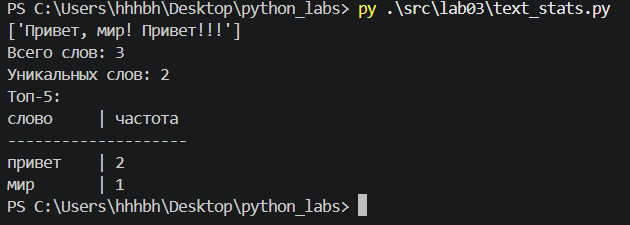
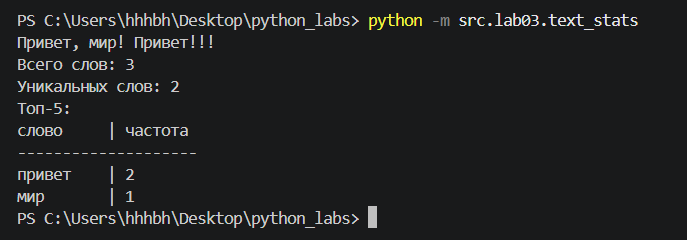
.

diff --git a/src/lib/text.py b/src/lib/text.py
@@ -13,23 +13,26 @@ def flatten(a):
         return TypeError
     
 def normalize(a):
-    b=[]
-    for i in range(len(a)):
-        b.append(a[i].replace("\n"," ").replace("\t"," ").replace("\r"," ").casefold().replace("ё","е").strip())
-        k=b[i].count(" ")
-        prob=" "*k
-        b[i]=b[i].replace(prob," ")
-    return b
+    b=""
+    b=(a.replace("\n"," ").replace("\t"," ").replace("\r"," ").casefold().replace("ё","е").strip())
+    c=""
+    for i in range(len(b)-1):
+        if b[i]==" " and b[i+1]==" ":
+            pass
+        else:
+            c+=b[i]
+    return c+b[-1]
 
 def tokenize(a):
     b=[]
-    for i in range(len(a)):
-        b.append(re.split(r'[^a-zA-Z0-9а-яА-Я-]+',a[i]))
+    c=[]
+    b=(re.split(r'[^a-zA-Z0-9а-яА-Я-]+',a))
     for x in range(len(b)):
-        for y in range(len(b[x])):
-            if len(b[x][y])==0:
-                b[x].pop(y)
-    return b
+        if len(b[x])==0:
+            pass
+        else:
+            c.append(b[x])
+    return c
 
 def count_freq(a):
     b=set(a)
@@ -43,21 +46,19 @@ def count_freq(a):
 def alf_ord(a):
     num_of_nums=[]
     for i in range(len(a)):
-        num_of_nums.append(a[i][0])
+        num_of_nums.append(a[i][1])
     num_of_nums=list(set(num_of_nums))
     num_of_nums.reverse()
     b=[[]for x in range(len(num_of_nums))]
     for x in range(0,len(num_of_nums)):
         for y in range(0,len(a)):
-            if int(a[y][0])==int(num_of_nums[x]):
+            if (a[y][1])==(num_of_nums[x]):
                 b[x].append(a[y])
     for i in range(len(b)):
-        b[i].sort()
+        flatten(b[i])
     return flatten(b)
 
 def top_n(a,n):
-    b=[[0,0]for i in range(len(a))]
-    for i in range(len(a)):
-        b[i][0],b[i][1]=a[i][1],a[i][0]
-    b.sort(reverse=True)
-    return alf_ord(b)[0:n]
+    c=list(dict.items(a))
+    e=sorted(c, key=lambda x: x[1], reverse=True)
+    return alf_ord(e[0:n])

diff --git a/src/lab03/text_stats.py b/src/lab03/text_stats.py
@@ -2,19 +2,17 @@ import re
 import math
 import sys
 from src.lib.text import normalize,tokenize,count_freq,top_n
-a=[]
-a.append(input())
+a=input()
+#a.append(input())
 k=10
-print(a)
-print("Всего слов:",len(tokenize(normalize(a))[0]))
-print("Уникальных слов:",len(set(tokenize(normalize(a))[0])))
+print("Всего слов:",len(tokenize(normalize(a))))
+print("Уникальных слов:",len(set(tokenize(normalize(a)))))
 print("Топ-5: ")
 print("слово"+" "*(k-len("слово"))+"|"*(math.ceil(k/1000))+" частота")
 if k>0:
     print("-"*k*2)
-print(top_n(count_freq(tokenize(normalize(a))[0]),5))
-for i in range(len(set(tokenize(normalize(a))[0]))):
-    print(top_n(count_freq(tokenize(normalize(a))[0]),5)[i][1]+" "*(k-len(top_n(count_freq(tokenize(normalize(a))[0]),5)[i][1]))+\
-          "|"*(math.ceil(k/1000))+" "+str(top_n(count_freq(tokenize(normalize(a))[0]),5)[i][0]))
-#запуск       "Привет, мир! Привет!!!" | python -m src.lab03.text_stats
+for i in range(len(set(tokenize(normalize(a))))):
+    print(top_n(count_freq(tokenize(normalize(a))),5)[i][0]+" "*(k-len(top_n(count_freq(tokenize(normalize(a))),5)[i][0]))+\
+          "|"*(math.ceil(k/1000))+" "+str(top_n(count_freq(tokenize(normalize(a))),5)[i][1]))
+#запуск       Привет, мир! Привет!!!  | python -m src.lab03.text_stats
 

diff --git a/src/lab03/test_case_text.py b/src/lab03/test_case_text.py
@@ -1,0 +1,23 @@
+from src.lib.text import normalize,tokenize,count_freq,top_n
+
+a=["ПрИвЕт\nМИр\t","ёжик, Ёлка","Hello\r\nWorld","  двойные   пробелы  "]
+b=["привет мир","hello,world!!!","по-настоящему круто","2025 год","emoji 😀 не слово"]
+c=["a","b","a","c","b","a"]
+d=["bb","aa","bb","aa","cc"]
+n=2
+
+print("normalize")
+for x in range(len(a)):
+    print(a[x]," → ",normalize(a[x]))
+print(" ")
+print("tokenize")
+for x in range(len(b)):
+    print(b[x]," → ",tokenize(b[x]))
+print(" ")
+print("count_freq + top_n")
+print(c," → ",count_freq(c))
+print(count_freq(c)," → ",top_n(count_freq(c),n))
+print(" ")
+print(d," → ",count_freq(d))
+print(count_freq(d)," → ",top_n(count_freq(d),n))
+#python -m src.lab03.test_case_text
